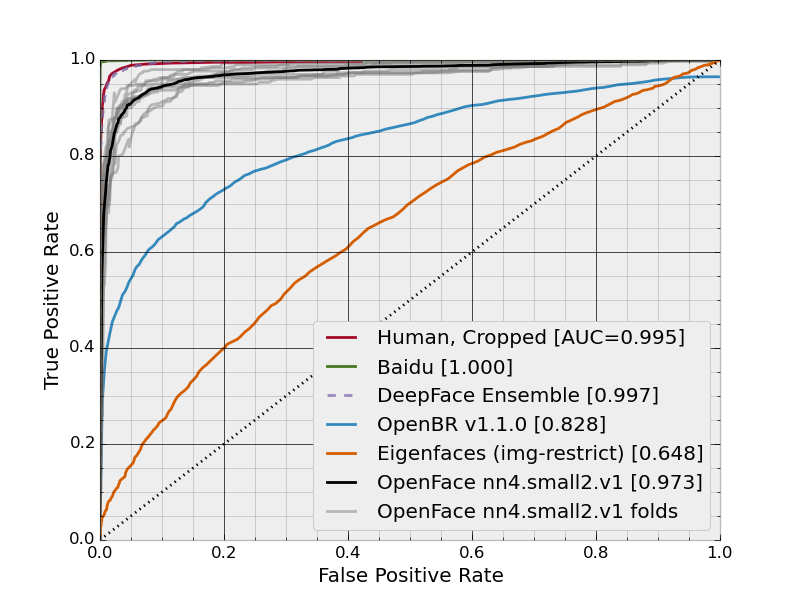
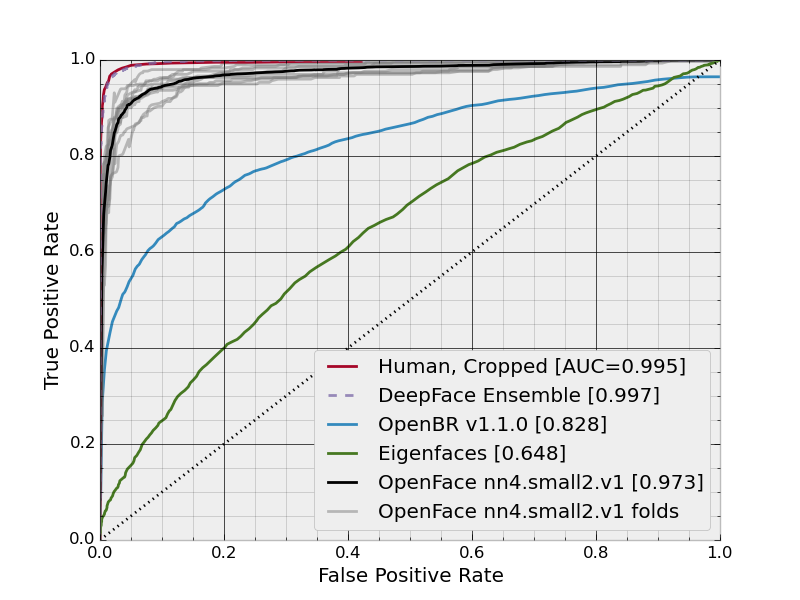
Update LFW plots.

diff --git a/evaluation/lfw.py b/evaluation/lfw.py
@@ -260,23 +260,23 @@ def plotVerifyExp(workDir, tag):
                        alpha=0.75)
     deepfaceAUC = getAUC(deepfaceData[1], deepfaceData[0])
 
-    baiduData = pd.read_table(
-        "comparisons/BaiduIDLFinal.TPFP", header=None, sep=' ')
-    bPlot, = plt.plot(baiduData[1], baiduData[0])
-    baiduAUC = getAUC(baiduData[1], baiduData[0])
+    # baiduData = pd.read_table(
+    #     "comparisons/BaiduIDLFinal.TPFP", header=None, sep=' ')
+    # bPlot, = plt.plot(baiduData[1], baiduData[0])
+    # baiduAUC = getAUC(baiduData[1], baiduData[0])
 
     eigData = pd.read_table(
         "comparisons/eigenfaces-original-roc.txt", header=None, sep=' ')
     eigPlot, = plt.plot(eigData[1], eigData[0])
     eigAUC = getAUC(eigData[1], eigData[0])
 
-    ax.legend([humanPlot, bPlot, dfPlot, brPlot, eigPlot,
+    ax.legend([humanPlot, dfPlot, brPlot, eigPlot,
                meanPlot, foldPlot],
               ['Human, Cropped [AUC={:.3f}]'.format(humanAUC),
-               'Baidu [{:.3f}]'.format(baiduAUC),
+               # 'Baidu [{:.3f}]'.format(baiduAUC),
                'DeepFace Ensemble [{:.3f}]'.format(deepfaceAUC),
                'OpenBR v1.1.0 [{:.3f}]'.format(brAUC),
-               'Eigenfaces (img-restrict) [{:.3f}]'.format(eigAUC),
+               'Eigenfaces [{:.3f}]'.format(eigAUC),
                'OpenFace {} [{:.3f}]'.format(tag, AUC),
                'OpenFace {} folds'.format(tag)],
               loc='lower right')
